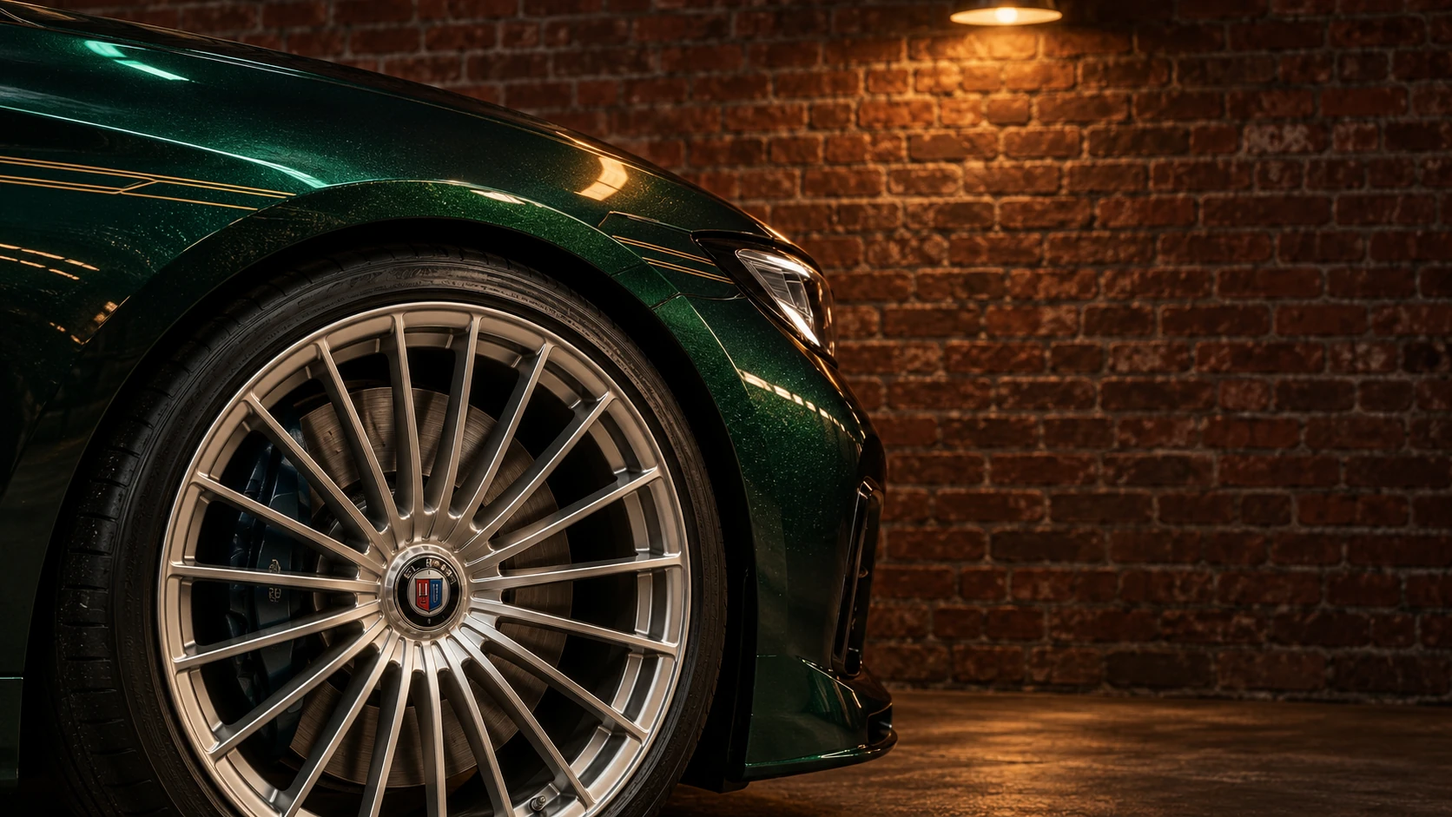
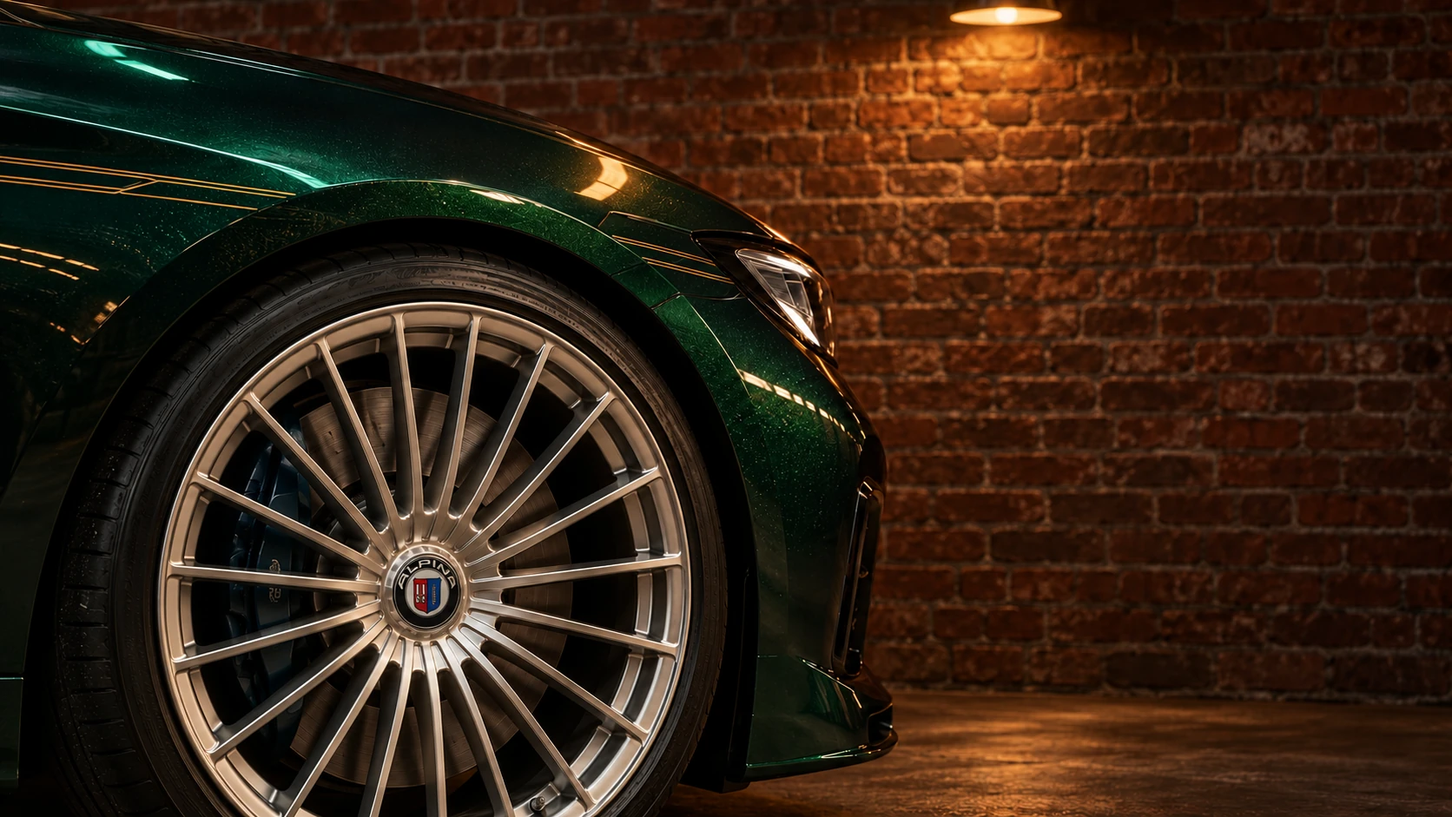
Publish corrected ALPINA badge

diff --git a/docs/hero-lab/index.html b/docs/hero-lab/index.html
@@ -5,7 +5,7 @@
 <script src="script.js?v=40a65fa658" defer></script></head><body class="theme-gallery"><header class="gallery-header"><a href="/garage_team/" aria-label="Главная Garage Team"><img src="assets/logo.svg" width="124" height="45" alt="Garage Team"></a><span class="mono">CREATIVE DIRECTION / 2026</span><a href="/garage_team/">Текущий сайт <svg viewBox="0 0 24 24" fill="none" aria-hidden="true"><path d="M5 19 19 5M5 5h14v14" stroke="currentColor" stroke-width="1.5"/></svg></a></header>
     <main id="main" class="gallery-main"><section class="gallery-intro"><p class="eyebrow">GARAGE TEAM / 23 ВАРИАНТА</p><h1>ВЫБЕРИТЕ<br><span>СВОЙ ГАРАЖ.</span></h1><nav class="series-nav" aria-label="Серии концепций"><a href="pages.html">16–23 / Первый экран + три блока →</a><a href="#close-series">11–15 / Крупным планом ↓</a><a href="#dark-series">06–10 / Тёмная серия ↓</a><a href="#original-series">01–05 / Первая серия ↓</a></nav></section>
     <section id="full-pages" class="gallery-series" aria-labelledby="full-pages-title"><div class="series-heading"><h2 id="full-pages-title">За первым экраном.</h2><p>Восемь страниц: первый экран, услуги, гарантия и запись.<br><a href="pages.html">Сравнить продолжения →</a></p></div><div class="studies"><a class="study-card study-card--copper-panorama" href="copper-panorama.html"><div class="study-cover"><img src="assets/thumb-copper-panorama.jpg?v=a45954ce3b" width="1440" height="1000" alt="Первый экран: Тёплая механика" loading="lazy"><span class="study-open">Открыть <svg viewBox="0 0 24 24" fill="none" aria-hidden="true"><path d="M5 19 19 5M5 5h14v14" stroke="currentColor" stroke-width="1.5"/></svg></span></div><div class="study-info"><span class="study-number">21</span><div><p class="eyebrow">№12 / панорамные кадры</p><h3>Тёплая механика</h3><p>Двигатель во всю ширину, оптика в кирпичной раме и тёплый салон.</p></div><svg viewBox="0 0 24 24" fill="none" aria-hidden="true"><path d="M5 19 19 5M5 5h14v14" stroke="currentColor" stroke-width="1.5"/></svg></div></a><a class="study-card study-card--copper-sequence" href="copper-sequence.html"><div class="study-cover"><img src="assets/thumb-copper-sequence.jpg?v=fbec04b808" width="1440" height="1000" alt="Первый экран: Линия света" loading="lazy"><span class="study-open">Открыть <svg viewBox="0 0 24 24" fill="none" aria-hidden="true"><path d="M5 19 19 5M5 5h14v14" stroke="currentColor" stroke-width="1.5"/></svg></span></div><div class="study-info"><span class="study-number">22</span><div><p class="eyebrow">№12 / смена ракурса</p><h3>Линия света</h3><p>Интерактивные детали, крупное колесо и асимметричная композиция записи.</p></div><svg viewBox="0 0 24 24" fill="none" aria-hidden="true"><path d="M5 19 19 5M5 5h14v14" stroke="currentColor" stroke-width="1.5"/></svg></div></a><a class="study-card study-card--copper-collection" href="copper-collection.html"><div class="study-cover"><img src="assets/thumb-copper-collection.jpg?v=e9c94a92a9" width="1440" height="1000" alt="Первый экран: Частная коллекция" loading="lazy"><span class="study-open">Открыть <svg viewBox="0 0 24 24" fill="none" aria-hidden="true"><path d="M5 19 19 5M5 5h14v14" stroke="currentColor" stroke-width="1.5"/></svg></span></div><div class="study-info"><span class="study-number">23</span><div><p class="eyebrow">№12 / галерея деталей</p><h3>Частная коллекция</h3><p>Три разных масштаба, свет фары и неоновая вывеска на кирпиче.</p></div><svg viewBox="0 0 24 24" fill="none" aria-hidden="true"><path d="M5 19 19 5M5 5h14v14" stroke="currentColor" stroke-width="1.5"/></svg></div></a><a class="study-card study-card--mint-film" href="mint-film.html"><div class="study-cover"><img src="assets/thumb-mint-film.jpg?v=fdc22630d2" width="1440" height="1000" alt="Первый экран: Кинолента" loading="lazy"><span class="study-open">Открыть <svg viewBox="0 0 24 24" fill="none" aria-hidden="true"><path d="M5 19 19 5M5 5h14v14" stroke="currentColor" stroke-width="1.5"/></svg></span></div><div class="study-info"><span class="study-number">16</span><div><p class="eyebrow">Кадры во всю ширину</p><h3>Кинолента</h3><p>Двигатель, тормозной диск и салон. Три крупные сцены с плавной глубиной.</p></div><svg viewBox="0 0 24 24" fill="none" aria-hidden="true"><path d="M5 19 19 5M5 5h14v14" stroke="currentColor" stroke-width="1.5"/></svg></div></a><a class="study-card study-card--mint-grid" href="mint-grid.html"><div class="study-cover"><img src="assets/thumb-mint-grid.jpg?v=4b7aeb7f4a" width="1440" height="1000" alt="Первый экран: Точная сборка" loading="lazy"><span class="study-open">Открыть <svg viewBox="0 0 24 24" fill="none" aria-hidden="true"><path d="M5 19 19 5M5 5h14v14" stroke="currentColor" stroke-width="1.5"/></svg></span></div><div class="study-info"><span class="study-number">17</span><div><p class="eyebrow">Сетка / крупные детали</p><h3>Точная сборка</h3><p>Три направления, большой гарантийный блок и спокойная композиция записи.</p></div><svg viewBox="0 0 24 24" fill="none" aria-hidden="true"><path d="M5 19 19 5M5 5h14v14" stroke="currentColor" stroke-width="1.5"/></svg></div></a><a class="study-card study-card--mint-chapters" href="mint-chapters.html"><div class="study-cover"><img src="assets/thumb-mint-chapters.jpg?v=a8319327fb" width="1440" height="1000" alt="Первый экран: Ночной маршрут" loading="lazy"><span class="study-open">Открыть <svg viewBox="0 0 24 24" fill="none" aria-hidden="true"><path d="M5 19 19 5M5 5h14v14" stroke="currentColor" stroke-width="1.5"/></svg></span></div><div class="study-info"><span class="study-number">18</span><div><p class="eyebrow">Интерактивный выбор</p><h3>Ночной маршрут</h3><p>Выбор услуги меняет деталь автомобиля. Затем — гарантия и адрес.</p></div><svg viewBox="0 0 24 24" fill="none" aria-hidden="true"><path d="M5 19 19 5M5 5h14v14" stroke="currentColor" stroke-width="1.5"/></svg></div></a><a class="study-card study-card--mint-editorial" href="mint-editorial.html"><div class="study-cover"><img src="assets/thumb-mint-editorial.jpg?v=677b1bec60" width="1440" height="1000" alt="Первый экран: Чёрный журнал" loading="lazy"><span class="study-open">Открыть <svg viewBox="0 0 24 24" fill="none" aria-hidden="true"><path d="M5 19 19 5M5 5h14v14" stroke="currentColor" stroke-width="1.5"/></svg></span></div><div class="study-info"><span class="study-number">19</span><div><p class="eyebrow">Асимметрия / типографика</p><h3>Чёрный журнал</h3><p>Широкие строки услуг, узкие фотокадры и выразительный масштаб цифр.</p></div><svg viewBox="0 0 24 24" fill="none" aria-hidden="true"><path d="M5 19 19 5M5 5h14v14" stroke="currentColor" stroke-width="1.5"/></svg></div></a><a class="study-card study-card--mint-workshop" href="mint-workshop.html"><div class="study-cover"><img src="assets/thumb-mint-workshop.jpg?v=3008f3f0d6" width="1440" height="1000" alt="Первый экран: Внутри гаража" loading="lazy"><span class="study-open">Открыть <svg viewBox="0 0 24 24" fill="none" aria-hidden="true"><path d="M5 19 19 5M5 5h14v14" stroke="currentColor" stroke-width="1.5"/></svg></span></div><div class="study-info"><span class="study-number">20</span><div><p class="eyebrow">Кирпич / световые окна</p><h3>Внутри гаража</h3><p>Фрагменты автомобиля в кирпичной архитектуре и неон в конце маршрута.</p></div><svg viewBox="0 0 24 24" fill="none" aria-hidden="true"><path d="M5 19 19 5M5 5h14v14" stroke="currentColor" stroke-width="1.5"/></svg></div></a></div></section>
-    <section id="close-series" class="gallery-series" aria-labelledby="close-series-title"><div class="series-heading"><h2 id="close-series-title">Крупным планом.</h2><p>Кирпич, неон и минимум слов.<br><a href="pages.html">Восемь страниц с продолжением →</a></p></div><div class="studies"><a class="study-card study-card--mint" href="mint.html"><div class="study-cover"><img src="assets/thumb-mint.jpg?v=db25f51cd2" width="1440" height="1000" alt="Первый экран: Мятный свет" loading="lazy"><span class="study-open">Открыть <svg viewBox="0 0 24 24" fill="none" aria-hidden="true"><path d="M5 19 19 5M5 5h14v14" stroke="currentColor" stroke-width="1.5"/></svg></span></div><div class="study-info"><span class="study-number">11</span><div><p class="eyebrow">Оптика / неон</p><h3>Мятный свет</h3><p>Крупная фара, зелёный металл и настоящие контуры вывески.</p></div><svg viewBox="0 0 24 24" fill="none" aria-hidden="true"><path d="M5 19 19 5M5 5h14v14" stroke="currentColor" stroke-width="1.5"/></svg></div></a><a class="study-card study-card--copper" href="copper.html"><div class="study-cover"><img src="assets/thumb-copper.jpg?v=ae8ca1535c" width="1440" height="1000" alt="Первый экран: Тёплый металл" loading="lazy"><span class="study-open">Открыть <svg viewBox="0 0 24 24" fill="none" aria-hidden="true"><path d="M5 19 19 5M5 5h14v14" stroke="currentColor" stroke-width="1.5"/></svg></span></div><div class="study-info"><span class="study-number">12</span><div><p class="eyebrow">Колесо / кирпич</p><h3>Тёплый металл</h3><p>Многоспицевый диск крупным планом и тёплая кирпичная стена.</p></div><svg viewBox="0 0 24 24" fill="none" aria-hidden="true"><path d="M5 19 19 5M5 5h14v14" stroke="currentColor" stroke-width="1.5"/></svg></div></a><a class="study-card study-card--scarlet" href="scarlet.html"><div class="study-cover"><img src="assets/thumb-scarlet.jpg?v=25884adda4" width="1440" height="1000" alt="Первый экран: Красная линия" loading="lazy"><span class="study-open">Открыть <svg viewBox="0 0 24 24" fill="none" aria-hidden="true"><path d="M5 19 19 5M5 5h14v14" stroke="currentColor" stroke-width="1.5"/></svg></span></div><div class="study-info"><span class="study-number">13</span><div><p class="eyebrow">Задний фонарь / контраст</p><h3>Красная линия</h3><p>Красный свет фонаря, чёрный кузов и мятная вывеска.</p></div><svg viewBox="0 0 24 24" fill="none" aria-hidden="true"><path d="M5 19 19 5M5 5h14v14" stroke="currentColor" stroke-width="1.5"/></svg></div></a><a class="study-card study-card--graphite" href="graphite.html"><div class="study-cover"><img src="assets/thumb-graphite.jpg?v=126a1ecf27" width="1440" height="1000" alt="Первый экран: Чёрный хром" loading="lazy"><span class="study-open">Открыть <svg viewBox="0 0 24 24" fill="none" aria-hidden="true"><path d="M5 19 19 5M5 5h14v14" stroke="currentColor" stroke-width="1.5"/></svg></span></div><div class="study-info"><span class="study-number">14</span><div><p class="eyebrow">Решётка / фронтальный ракурс</p><h3>Чёрный хром</h3><p>Весь экран — фактура металла. Кирпич и вывеска над автомобилем.</p></div><svg viewBox="0 0 24 24" fill="none" aria-hidden="true"><path d="M5 19 19 5M5 5h14v14" stroke="currentColor" stroke-width="1.5"/></svg></div></a><a class="study-card study-card--vault" href="vault.html"><div class="study-cover"><img src="assets/thumb-vault.jpg?v=a03bb57932" width="1440" height="1000" alt="Первый экран: Своя территория" loading="lazy"><span class="study-open">Открыть <svg viewBox="0 0 24 24" fill="none" aria-hidden="true"><path d="M5 19 19 5M5 5h14v14" stroke="currentColor" stroke-width="1.5"/></svg></span></div><div class="study-info"><span class="study-number">15</span><div><p class="eyebrow">Макро / типографика</p><h3>Своя территория</h3><p>Оптика в упор, кирпичный простенок и крупная типографика.</p></div><svg viewBox="0 0 24 24" fill="none" aria-hidden="true"><path d="M5 19 19 5M5 5h14v14" stroke="currentColor" stroke-width="1.5"/></svg></div></a></div></section>
+    <section id="close-series" class="gallery-series" aria-labelledby="close-series-title"><div class="series-heading"><h2 id="close-series-title">Крупным планом.</h2><p>Кирпич, неон и минимум слов.<br><a href="pages.html">Восемь страниц с продолжением →</a></p></div><div class="studies"><a class="study-card study-card--mint" href="mint.html"><div class="study-cover"><img src="assets/thumb-mint.jpg?v=db25f51cd2" width="1440" height="1000" alt="Первый экран: Мятный свет" loading="lazy"><span class="study-open">Открыть <svg viewBox="0 0 24 24" fill="none" aria-hidden="true"><path d="M5 19 19 5M5 5h14v14" stroke="currentColor" stroke-width="1.5"/></svg></span></div><div class="study-info"><span class="study-number">11</span><div><p class="eyebrow">Оптика / неон</p><h3>Мятный свет</h3><p>Крупная фара, зелёный металл и настоящие контуры вывески.</p></div><svg viewBox="0 0 24 24" fill="none" aria-hidden="true"><path d="M5 19 19 5M5 5h14v14" stroke="currentColor" stroke-width="1.5"/></svg></div></a><a class="study-card study-card--copper" href="copper.html"><div class="study-cover"><img src="assets/thumb-copper.jpg?v=600a0a57d0" width="1440" height="1000" alt="Первый экран: Тёплый металл" loading="lazy"><span class="study-open">Открыть <svg viewBox="0 0 24 24" fill="none" aria-hidden="true"><path d="M5 19 19 5M5 5h14v14" stroke="currentColor" stroke-width="1.5"/></svg></span></div><div class="study-info"><span class="study-number">12</span><div><p class="eyebrow">Колесо / кирпич</p><h3>Тёплый металл</h3><p>Многоспицевый диск крупным планом и тёплая кирпичная стена.</p></div><svg viewBox="0 0 24 24" fill="none" aria-hidden="true"><path d="M5 19 19 5M5 5h14v14" stroke="currentColor" stroke-width="1.5"/></svg></div></a><a class="study-card study-card--scarlet" href="scarlet.html"><div class="study-cover"><img src="assets/thumb-scarlet.jpg?v=25884adda4" width="1440" height="1000" alt="Первый экран: Красная линия" loading="lazy"><span class="study-open">Открыть <svg viewBox="0 0 24 24" fill="none" aria-hidden="true"><path d="M5 19 19 5M5 5h14v14" stroke="currentColor" stroke-width="1.5"/></svg></span></div><div class="study-info"><span class="study-number">13</span><div><p class="eyebrow">Задний фонарь / контраст</p><h3>Красная линия</h3><p>Красный свет фонаря, чёрный кузов и мятная вывеска.</p></div><svg viewBox="0 0 24 24" fill="none" aria-hidden="true"><path d="M5 19 19 5M5 5h14v14" stroke="currentColor" stroke-width="1.5"/></svg></div></a><a class="study-card study-card--graphite" href="graphite.html"><div class="study-cover"><img src="assets/thumb-graphite.jpg?v=126a1ecf27" width="1440" height="1000" alt="Первый экран: Чёрный хром" loading="lazy"><span class="study-open">Открыть <svg viewBox="0 0 24 24" fill="none" aria-hidden="true"><path d="M5 19 19 5M5 5h14v14" stroke="currentColor" stroke-width="1.5"/></svg></span></div><div class="study-info"><span class="study-number">14</span><div><p class="eyebrow">Решётка / фронтальный ракурс</p><h3>Чёрный хром</h3><p>Весь экран — фактура металла. Кирпич и вывеска над автомобилем.</p></div><svg viewBox="0 0 24 24" fill="none" aria-hidden="true"><path d="M5 19 19 5M5 5h14v14" stroke="currentColor" stroke-width="1.5"/></svg></div></a><a class="study-card study-card--vault" href="vault.html"><div class="study-cover"><img src="assets/thumb-vault.jpg?v=a03bb57932" width="1440" height="1000" alt="Первый экран: Своя территория" loading="lazy"><span class="study-open">Открыть <svg viewBox="0 0 24 24" fill="none" aria-hidden="true"><path d="M5 19 19 5M5 5h14v14" stroke="currentColor" stroke-width="1.5"/></svg></span></div><div class="study-info"><span class="study-number">15</span><div><p class="eyebrow">Макро / типографика</p><h3>Своя территория</h3><p>Оптика в упор, кирпичный простенок и крупная типографика.</p></div><svg viewBox="0 0 24 24" fill="none" aria-hidden="true"><path d="M5 19 19 5M5 5h14v14" stroke="currentColor" stroke-width="1.5"/></svg></div></a></div></section>
     <section id="dark-series" class="gallery-series" aria-labelledby="dark-series-title"><div class="series-heading"><h2 id="dark-series-title">После заката.</h2><p>Пять новых ракурсов. Пять способов взаимодействовать.</p></div><div class="studies"><a class="study-card study-card--ignition" href="ignition.html"><div class="study-cover"><img src="assets/thumb-ignition.jpg?v=7f4110d6c3" width="1440" height="1000" alt="Первый экран: Первый взгляд" loading="lazy"><span class="study-open">Открыть <svg viewBox="0 0 24 24" fill="none" aria-hidden="true"><path d="M5 19 19 5M5 5h14v14" stroke="currentColor" stroke-width="1.5"/></svg></span></div><div class="study-info"><span class="study-number">06</span><div><p class="eyebrow">Анфас / свет фар</p><h3>Первый взгляд</h3><p>Симметрия, автомобиль в центре и свет фар, который можно включить.</p></div><svg viewBox="0 0 24 24" fill="none" aria-hidden="true"><path d="M5 19 19 5M5 5h14v14" stroke="currentColor" stroke-width="1.5"/></svg></div></a><a class="study-card study-card--nocturne" href="nocturne.html"><div class="study-cover"><img src="assets/thumb-nocturne.jpg?v=7a00288589" width="1440" height="1000" alt="Первый экран: Другой ракурс" loading="lazy"><span class="study-open">Открыть <svg viewBox="0 0 24 24" fill="none" aria-hidden="true"><path d="M5 19 19 5M5 5h14v14" stroke="currentColor" stroke-width="1.5"/></svg></span></div><div class="study-info"><span class="study-number">07</span><div><p class="eyebrow">Вид сзади / атмосфера</p><h3>Другой ракурс</h3><p>Автомобиль слева, типографика справа. Два настроения света в одном боксе.</p></div><svg viewBox="0 0 24 24" fill="none" aria-hidden="true"><path d="M5 19 19 5M5 5h14v14" stroke="currentColor" stroke-width="1.5"/></svg></div></a><a class="study-card study-card--overhead" href="overhead.html"><div class="study-cover"><img src="assets/thumb-overhead.jpg?v=7b7e7da0a7" width="1440" height="1000" alt="Первый экран: Внимание к деталям" loading="lazy"><span class="study-open">Открыть <svg viewBox="0 0 24 24" fill="none" aria-hidden="true"><path d="M5 19 19 5M5 5h14v14" stroke="currentColor" stroke-width="1.5"/></svg></span></div><div class="study-info"><span class="study-number">08</span><div><p class="eyebrow">Вид сверху / точки внимания</p><h3>Внимание к деталям</h3><p>Необычный ракурс и три интерактивные точки: двигатель, ходовая и обслуживание.</p></div><svg viewBox="0 0 24 24" fill="none" aria-hidden="true"><path d="M5 19 19 5M5 5h14v14" stroke="currentColor" stroke-width="1.5"/></svg></div></a><a class="study-card study-card--bay" href="bay.html"><div class="study-cover"><img src="assets/thumb-bay.jpg?v=1c87a648d5" width="1440" height="1000" alt="Первый экран: Свой гараж" loading="lazy"><span class="study-open">Открыть <svg viewBox="0 0 24 24" fill="none" aria-hidden="true"><path d="M5 19 19 5M5 5h14v14" stroke="currentColor" stroke-width="1.5"/></svg></span></div><div class="study-info"><span class="study-number">09</span><div><p class="eyebrow">Профиль / рольворота</p><h3>Свой гараж</h3><p>Длинный силуэт универсала внутри светового портала. Откройте и закройте бокс.</p></div><svg viewBox="0 0 24 24" fill="none" aria-hidden="true"><path d="M5 19 19 5M5 5h14v14" stroke="currentColor" stroke-width="1.5"/></svg></div></a><a class="study-card study-card--closeup" href="closeup.html"><div class="study-cover"><img src="assets/thumb-closeup.jpg?v=b19e0a4427" width="1440" height="1000" alt="Первый экран: Ближе к машине" loading="lazy"><span class="study-open">Открыть <svg viewBox="0 0 24 24" fill="none" aria-hidden="true"><path d="M5 19 19 5M5 5h14v14" stroke="currentColor" stroke-width="1.5"/></svg></span></div><div class="study-info"><span class="study-number">10</span><div><p class="eyebrow">Макро / управляемый свет</p><h3>Ближе к машине</h3><p>Крупный план оптики и металла. Проведите светом по деталям автомобиля.</p></div><svg viewBox="0 0 24 24" fill="none" aria-hidden="true"><path d="M5 19 19 5M5 5h14v14" stroke="currentColor" stroke-width="1.5"/></svg></div></a></div></section>
     <section id="original-series" class="gallery-series" aria-labelledby="original-series-title"><div class="series-heading"><h2 id="original-series-title">Первая коллекция.</h2><p>Светлый индустриальный, кинематографичный и три других характера.</p></div><div class="studies"><a class="study-card study-card--precision" href="precision.html"><div class="study-cover"><img src="assets/thumb-precision.jpg?v=395acb80c8" width="1440" height="1000" alt="Первый экран: Свой подход" loading="lazy"><span class="study-open">Открыть <svg viewBox="0 0 24 24" fill="none" aria-hidden="true"><path d="M5 19 19 5M5 5h14v14" stroke="currentColor" stroke-width="1.5"/></svg></span></div><div class="study-info"><span class="study-number">01</span><div><p class="eyebrow">Светлый индустриальный</p><h3>Свой подход</h3><p>Скульптурный автомобиль, гигантские буквы и точная журнальная сетка.</p></div><svg viewBox="0 0 24 24" fill="none" aria-hidden="true"><path d="M5 19 19 5M5 5h14v14" stroke="currentColor" stroke-width="1.5"/></svg></div></a><a class="study-card study-card--afterhours" href="afterhours.html"><div class="study-cover"><img src="assets/thumb-afterhours.jpg?v=06ed6d19d8" width="1440" height="1000" alt="Первый экран: Характер в деталях" loading="lazy"><span class="study-open">Открыть <svg viewBox="0 0 24 24" fill="none" aria-hidden="true"><path d="M5 19 19 5M5 5h14v14" stroke="currentColor" stroke-width="1.5"/></svg></span></div><div class="study-info"><span class="study-number">02</span><div><p class="eyebrow">Кинематографичный</p><h3>Характер в деталях</h3><p>Глубокий чёрный, зелёный универсал Alpina и свет, который собирает форму автомобиля.</p></div><svg viewBox="0 0 24 24" fill="none" aria-hidden="true"><path d="M5 19 19 5M5 5h14v14" stroke="currentColor" stroke-width="1.5"/></svg></div></a><a class="study-card study-card--engineering" href="engineering.html"><div class="study-cover"><img src="assets/thumb-engineering.jpg?v=3498ab0316" width="1440" height="1000" alt="Первый экран: Точность в основе" loading="lazy"><span class="study-open">Открыть <svg viewBox="0 0 24 24" fill="none" aria-hidden="true"><path d="M5 19 19 5M5 5h14v14" stroke="currentColor" stroke-width="1.5"/></svg></span></div><div class="study-info"><span class="study-number">03</span><div><p class="eyebrow">Инженерный</p><h3>Точность в основе</h3><p>Чистый профиль Alpina, диагональная архитектура и техническая графика.</p></div><svg viewBox="0 0 24 24" fill="none" aria-hidden="true"><path d="M5 19 19 5M5 5h14v14" stroke="currentColor" stroke-width="1.5"/></svg></div></a><a class="study-card study-card--motion" href="motion.html"><div class="study-cover"><img src="assets/thumb-motion.jpg?v=d31b4e5e78" width="1440" height="1000" alt="Первый экран: Продолжение движения" loading="lazy"><span class="study-open">Открыть <svg viewBox="0 0 24 24" fill="none" aria-hidden="true"><path d="M5 19 19 5M5 5h14v14" stroke="currentColor" stroke-width="1.5"/></svg></span></div><div class="study-info"><span class="study-number">04</span><div><p class="eyebrow">Динамичный</p><h3>Продолжение движения</h3><p>Светлый fashion-постер: красные шлейфы, воздух и огромная типографика.</p></div><svg viewBox="0 0 24 24" fill="none" aria-hidden="true"><path d="M5 19 19 5M5 5h14v14" stroke="currentColor" stroke-width="1.5"/></svg></div></a><a class="study-card study-card--atelier" href="atelier.html"><div class="study-cover"><img src="assets/thumb-atelier.jpg?v=2a23961ea3" width="1440" height="1000" alt="Первый экран: Место силы" loading="lazy"><span class="study-open">Открыть <svg viewBox="0 0 24 24" fill="none" aria-hidden="true"><path d="M5 19 19 5M5 5h14v14" stroke="currentColor" stroke-width="1.5"/></svg></span></div><div class="study-info"><span class="study-number">05</span><div><p class="eyebrow">Параллакс-ателье</p><h3>Место силы</h3><p>Кирпич, тёплый свет и автомобиль между слоями. Двигается от курсора и прокрутки.</p></div><svg viewBox="0 0 24 24" fill="none" aria-hidden="true"><path d="M5 19 19 5M5 5h14v14" stroke="currentColor" stroke-width="1.5"/></svg></div></a></div></section></main>
     <footer class="gallery-footer"><p>Автомобили — сгенерированные концептуальные иллюстрации.</p><p>Параллакс есть во всех вариантах. Попробуйте движение мыши и прокрутку.</p><a href="/garage_team/">Открыть текущий сайт <svg viewBox="0 0 24 24" fill="none" aria-hidden="true"><path d="M5 12h14M12 5l7 7-7 7" stroke="currentColor" stroke-width="1.5"/></svg></a></footer></body></html>

diff --git a/docs/hero-lab/copper-collection.html b/docs/hero-lab/copper-collection.html
@@ -1,14 +1,14 @@
 <!doctype html>
 <html lang="ru"><head><meta charset="utf-8"><meta name="viewport" content="width=device-width, initial-scale=1, viewport-fit=cover">
 <meta name="robots" content="noindex,nofollow"><meta name="theme-color" content="#101310"><title>Частная коллекция — Garage Team</title>
-<link rel="icon" href="/garage_team/favicon.ico"><link rel="stylesheet" href="fonts.css"><link rel="stylesheet" href="style.css?v=40a65fa658"><link rel="stylesheet" href="close.css?v=a6c643ad26"><link rel="stylesheet" href="pages.css?v=0eef943d6c"><link rel="stylesheet" href="copper-pages.css?v=68bce5e43a"><link rel="preload" as="image" href="assets/copper.webp?v=06202364ed">
+<link rel="icon" href="/garage_team/favicon.ico"><link rel="stylesheet" href="fonts.css"><link rel="stylesheet" href="style.css?v=40a65fa658"><link rel="stylesheet" href="close.css?v=a6c643ad26"><link rel="stylesheet" href="pages.css?v=0eef943d6c"><link rel="stylesheet" href="copper-pages.css?v=68bce5e43a"><link rel="preload" as="image" href="assets/copper.webp?v=db1fb5aac3">
 <script src="script.js?v=40a65fa658" defer></script><script src="pages.js?v=0eef943d6c" defer></script></head><body class="theme-copper-collection close-edition page-edition copper-page"><a class="skip" href="#main">К содержанию</a><header class="header">
       <a class="brand" href="/garage_team/" aria-label="Garage Team — главная"><img src="assets/logo.svg" width="124" height="45" alt="Garage Team"></a>
       <nav class="desktop-nav" aria-label="Основное меню"><a href="#services">Услуги</a><a href="#visit">Контакты</a></nav>
       <a class="header-phone" href="tel:+78314161677">(831) 416-16-77</a>
       <details class="mobile-menu"><summary>Меню <span aria-hidden="true">+</span></summary><nav aria-label="Мобильное меню"><a href="#services">Услуги</a><a href="#visit">Контакты</a><a href="tel:+78314161677">Позвонить</a></nav></details>
     </header><main id="main"><section class="hero close-scene close-copper" id="hero-scene" data-parallax aria-labelledby="hero-title">
-          <div class="close-media" data-depth="1.1"><img class="scene-image" src="assets/copper.webp?v=06202364ed" alt="Диск и крыло Alpina у кирпичной стены — концептуальная визуализация" fetchpriority="high" decoding="async" ></div>
+          <div class="close-media" data-depth="1.1"><img class="scene-image" src="assets/copper.webp?v=db1fb5aac3" alt="Диск и крыло Alpina у кирпичной стены — концептуальная визуализация" fetchpriority="high" decoding="async" ></div>
           <div class="close-wall" aria-hidden="true"></div><div class="close-shade" aria-hidden="true"></div>
           <div class="close-sign" data-depth="0.3" aria-hidden="true"><img src="assets/close-neon.svg?v=a8cc368cd4" alt="" width="396" height="138"></div>
           <div class="close-copy"><h1 id="hero-title"><span>Сервис</span> <span>премиальных</span> <span>автомобилей.</span></h1></div>

diff --git a/docs/hero-lab/copper-panorama.html b/docs/hero-lab/copper-panorama.html
@@ -1,14 +1,14 @@
 <!doctype html>
 <html lang="ru"><head><meta charset="utf-8"><meta name="viewport" content="width=device-width, initial-scale=1, viewport-fit=cover">
 <meta name="robots" content="noindex,nofollow"><meta name="theme-color" content="#101310"><title>Тёплая механика — Garage Team</title>
-<link rel="icon" href="/garage_team/favicon.ico"><link rel="stylesheet" href="fonts.css"><link rel="stylesheet" href="style.css?v=40a65fa658"><link rel="stylesheet" href="close.css?v=a6c643ad26"><link rel="stylesheet" href="pages.css?v=0eef943d6c"><link rel="stylesheet" href="copper-pages.css?v=68bce5e43a"><link rel="preload" as="image" href="assets/copper.webp?v=06202364ed">
+<link rel="icon" href="/garage_team/favicon.ico"><link rel="stylesheet" href="fonts.css"><link rel="stylesheet" href="style.css?v=40a65fa658"><link rel="stylesheet" href="close.css?v=a6c643ad26"><link rel="stylesheet" href="pages.css?v=0eef943d6c"><link rel="stylesheet" href="copper-pages.css?v=68bce5e43a"><link rel="preload" as="image" href="assets/copper.webp?v=db1fb5aac3">
 <script src="script.js?v=40a65fa658" defer></script><script src="pages.js?v=0eef943d6c" defer></script></head><body class="theme-copper-panorama close-edition page-edition copper-page"><a class="skip" href="#main">К содержанию</a><header class="header">
       <a class="brand" href="/garage_team/" aria-label="Garage Team — главная"><img src="assets/logo.svg" width="124" height="45" alt="Garage Team"></a>
       <nav class="desktop-nav" aria-label="Основное меню"><a href="#services">Услуги</a><a href="#visit">Контакты</a></nav>
       <a class="header-phone" href="tel:+78314161677">(831) 416-16-77</a>
       <details class="mobile-menu"><summary>Меню <span aria-hidden="true">+</span></summary><nav aria-label="Мобильное меню"><a href="#services">Услуги</a><a href="#visit">Контакты</a><a href="tel:+78314161677">Позвонить</a></nav></details>
     </header><main id="main"><section class="hero close-scene close-copper" id="hero-scene" data-parallax aria-labelledby="hero-title">
-          <div class="close-media" data-depth="1.1"><img class="scene-image" src="assets/copper.webp?v=06202364ed" alt="Диск и крыло Alpina у кирпичной стены — концептуальная визуализация" fetchpriority="high" decoding="async" ></div>
+          <div class="close-media" data-depth="1.1"><img class="scene-image" src="assets/copper.webp?v=db1fb5aac3" alt="Диск и крыло Alpina у кирпичной стены — концептуальная визуализация" fetchpriority="high" decoding="async" ></div>
           <div class="close-wall" aria-hidden="true"></div><div class="close-shade" aria-hidden="true"></div>
           <div class="close-sign" data-depth="0.3" aria-hidden="true"><img src="assets/close-neon.svg?v=a8cc368cd4" alt="" width="396" height="138"></div>
           <div class="close-copy"><h1 id="hero-title"><span>Сервис</span> <span>премиальных</span> <span>автомобилей.</span></h1></div>

diff --git a/docs/hero-lab/copper-sequence.html b/docs/hero-lab/copper-sequence.html
@@ -1,14 +1,14 @@
 <!doctype html>
 <html lang="ru"><head><meta charset="utf-8"><meta name="viewport" content="width=device-width, initial-scale=1, viewport-fit=cover">
 <meta name="robots" content="noindex,nofollow"><meta name="theme-color" content="#101310"><title>Линия света — Garage Team</title>
-<link rel="icon" href="/garage_team/favicon.ico"><link rel="stylesheet" href="fonts.css"><link rel="stylesheet" href="style.css?v=40a65fa658"><link rel="stylesheet" href="close.css?v=a6c643ad26"><link rel="stylesheet" href="pages.css?v=0eef943d6c"><link rel="stylesheet" href="copper-pages.css?v=68bce5e43a"><link rel="preload" as="image" href="assets/copper.webp?v=06202364ed">
+<link rel="icon" href="/garage_team/favicon.ico"><link rel="stylesheet" href="fonts.css"><link rel="stylesheet" href="style.css?v=40a65fa658"><link rel="stylesheet" href="close.css?v=a6c643ad26"><link rel="stylesheet" href="pages.css?v=0eef943d6c"><link rel="stylesheet" href="copper-pages.css?v=68bce5e43a"><link rel="preload" as="image" href="assets/copper.webp?v=db1fb5aac3">
 <script src="script.js?v=40a65fa658" defer></script><script src="pages.js?v=0eef943d6c" defer></script></head><body class="theme-copper-sequence close-edition page-edition copper-page"><a class="skip" href="#main">К содержанию</a><header class="header">
       <a class="brand" href="/garage_team/" aria-label="Garage Team — главная"><img src="assets/logo.svg" width="124" height="45" alt="Garage Team"></a>
       <nav class="desktop-nav" aria-label="Основное меню"><a href="#services">Услуги</a><a href="#visit">Контакты</a></nav>
       <a class="header-phone" href="tel:+78314161677">(831) 416-16-77</a>
       <details class="mobile-menu"><summary>Меню <span aria-hidden="true">+</span></summary><nav aria-label="Мобильное меню"><a href="#services">Услуги</a><a href="#visit">Контакты</a><a href="tel:+78314161677">Позвонить</a></nav></details>
     </header><main id="main"><section class="hero close-scene close-copper" id="hero-scene" data-parallax aria-labelledby="hero-title">
-          <div class="close-media" data-depth="1.1"><img class="scene-image" src="assets/copper.webp?v=06202364ed" alt="Диск и крыло Alpina у кирпичной стены — концептуальная визуализация" fetchpriority="high" decoding="async" ></div>
+          <div class="close-media" data-depth="1.1"><img class="scene-image" src="assets/copper.webp?v=db1fb5aac3" alt="Диск и крыло Alpina у кирпичной стены — концептуальная визуализация" fetchpriority="high" decoding="async" ></div>
           <div class="close-wall" aria-hidden="true"></div><div class="close-shade" aria-hidden="true"></div>
           <div class="close-sign" data-depth="0.3" aria-hidden="true"><img src="assets/close-neon.svg?v=a8cc368cd4" alt="" width="396" height="138"></div>
           <div class="close-copy"><h1 id="hero-title"><span>Сервис</span> <span>премиальных</span> <span>автомобилей.</span></h1></div>

diff --git a/docs/hero-lab/copper.html b/docs/hero-lab/copper.html
@@ -1,14 +1,14 @@
 <!doctype html>
 <html lang="ru"><head><meta charset="utf-8"><meta name="viewport" content="width=device-width, initial-scale=1, viewport-fit=cover">
 <meta name="robots" content="noindex,nofollow"><meta name="theme-color" content="#101310"><title>Тёплый металл — Garage Team</title>
-<link rel="icon" href="/garage_team/favicon.ico"><link rel="stylesheet" href="fonts.css"><link rel="stylesheet" href="style.css?v=40a65fa658"><link rel="stylesheet" href="close.css?v=a6c643ad26"><link rel="preload" as="image" href="assets/copper.webp?v=06202364ed">
+<link rel="icon" href="/garage_team/favicon.ico"><link rel="stylesheet" href="fonts.css"><link rel="stylesheet" href="style.css?v=40a65fa658"><link rel="stylesheet" href="close.css?v=a6c643ad26"><link rel="preload" as="image" href="assets/copper.webp?v=db1fb5aac3">
 <script src="script.js?v=40a65fa658" defer></script></head><body class="theme-copper close-edition"><a class="skip" href="#main">К содержанию</a><header class="header">
       <a class="brand" href="/garage_team/" aria-label="Garage Team — главная"><img src="assets/logo.svg" width="124" height="45" alt="Garage Team"></a>
       <nav class="desktop-nav" aria-label="Основное меню"><a href="/garage_team/services.html">Услуги</a><a href="/garage_team/contacts/">Контакты</a></nav>
       <a class="header-phone" href="tel:+78314161677">(831) 416-16-77</a>
       <details class="mobile-menu"><summary>Меню <span aria-hidden="true">+</span></summary><nav aria-label="Мобильное меню"><a href="/garage_team/services.html">Услуги</a><a href="/garage_team/contacts/">Контакты</a><a href="tel:+78314161677">Позвонить</a></nav></details>
     </header><main id="main"><section class="hero close-scene close-copper" id="hero-scene" data-parallax aria-labelledby="hero-title">
-          <div class="close-media" data-depth="1.1"><img class="scene-image" src="assets/copper.webp?v=06202364ed" alt="Диск и крыло Alpina у кирпичной стены — концептуальная визуализация" fetchpriority="high" decoding="async" ></div>
+          <div class="close-media" data-depth="1.1"><img class="scene-image" src="assets/copper.webp?v=db1fb5aac3" alt="Диск и крыло Alpina у кирпичной стены — концептуальная визуализация" fetchpriority="high" decoding="async" ></div>
           <div class="close-wall" aria-hidden="true"></div><div class="close-shade" aria-hidden="true"></div>
           <div class="close-sign" data-depth="0.3" aria-hidden="true"><img src="assets/close-neon.svg?v=a8cc368cd4" alt="" width="396" height="138"></div>
           <div class="close-copy"><h1 id="hero-title"><span>Сервис</span> <span>премиальных</span> <span>автомобилей.</span></h1></div>
